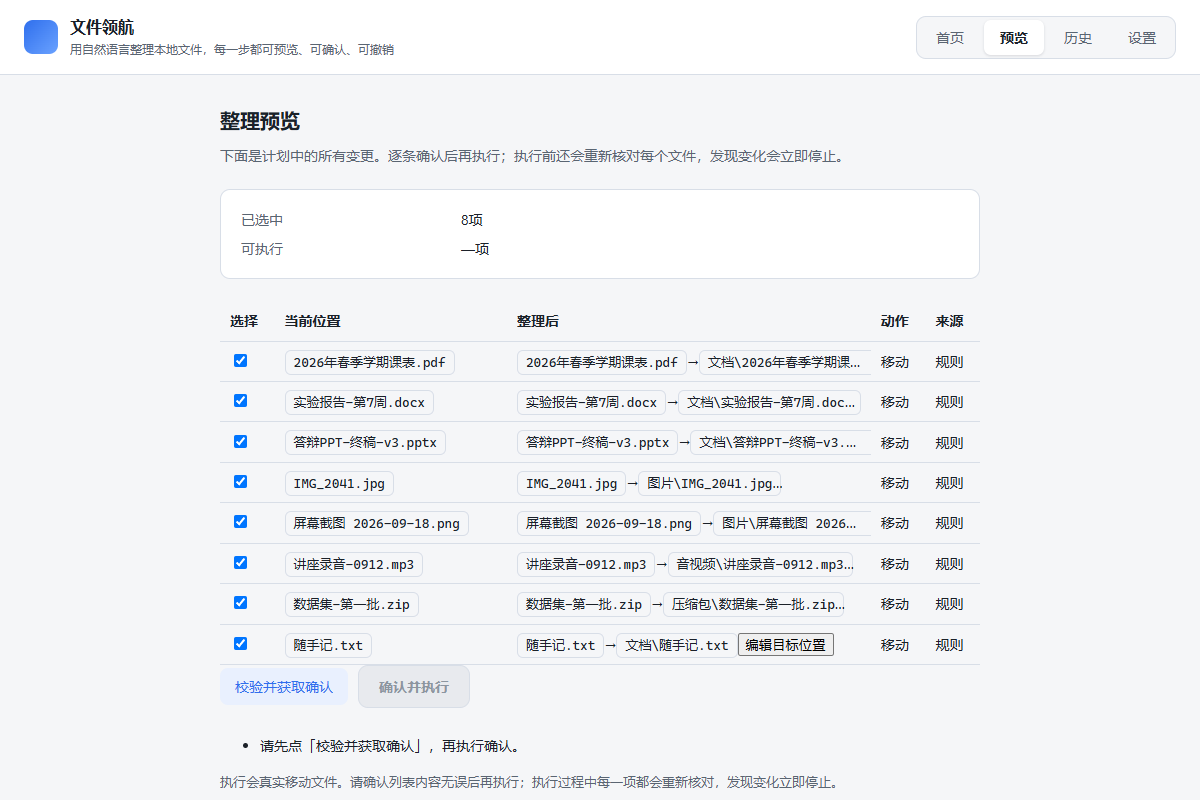
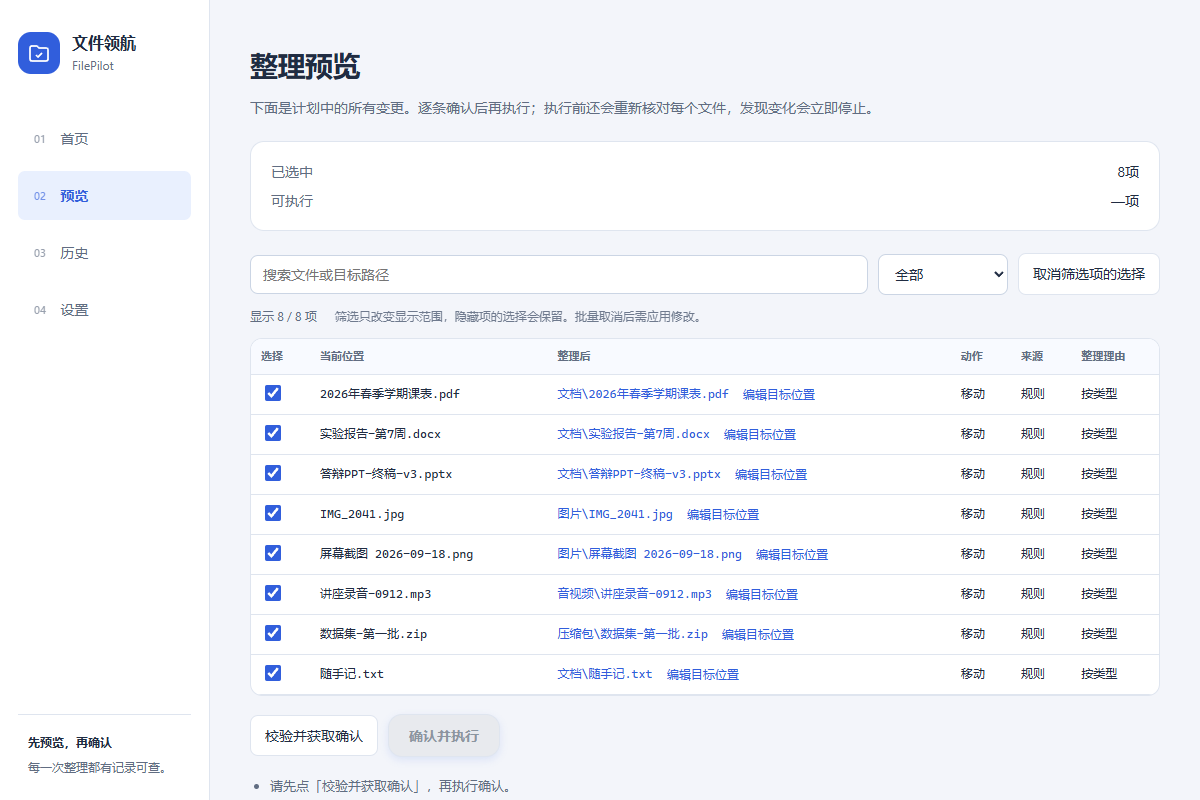
docs: 记录代码审查结论与界面完善，更新截图与发布清单
- 新增 docs/CODE_REVIEW_2026-09-26.md（CR-001~CR-006，含证据与修复建议）
- 新增 docs/UI_IMPROVEMENTS_2026-09-26.md（本轮界面完善与性能测量）
- PROGRESS.md 补两轮进度与门禁复跑记录；RELEASE_NOTES 同步验收状态
- RELEASE_CHECKLIST 更新安装包哈希为 3,049,424 字节 /
  2a3fa3c90cece6527b8514abd490a1cab14cb0938d51fc06cb6be96556cd681c
  （旧包哈希只属于旧包，新包不能沿用旧包的 T17 证据）
- 截图更新为当前界面；数据为合成样例，已逐张核对无真实路径与密钥

说明：内容扫描脚本不覆盖 NSIS 压缩负载；「安装包里没有真实路径」仍需人工确认。

diff --git a/docs/CODE_REVIEW_2026-09-26.md b/docs/CODE_REVIEW_2026-09-26.md
@@ -1,0 +1,81 @@
+# FilePilot 完成版代码审查（2026-09-26）
+
+以下「已确认的问题」保留 2026-09-26 初次审查时的现场描述和当时的测试结果，便于追溯；它们不是当前代码状态。修复结果和本轮复跑证据见紧接着的表格。T17 的正式验收仍不能从开发机测试推断。
+
+## 修复跟踪（2026-09-26）
+
+| 编号 | 当前状态 | 修复与回归证据 |
+|---|---|---|
+| CR-001 | 已修复 | 草稿未保存时不能校验或执行；迟到的校验报告需与当前计划 ID、revision 匹配，且不能覆盖新草稿。预览组件和 reducer 回归测试通过。 |
+| CR-002 | 已修复 | 保存时同时提交目标草稿与勾选草稿，单独取消勾选也会写回计划；组件回归测试通过。 |
+| CR-003 | 已修复 | 每次进入历史页重新读库；切页回归测试通过。 |
+| CR-004 | 已修复 | 恢复概况专查全库未决记录，不再借用最多 200 条的历史查询；201 条新记录遮蔽旧未决 run 的数据库回归测试通过。 |
+| CR-005 | 已修复 | 连点 E2E 直接在同一事件循环触发两次点击，不再等待已经消失的按钮；全套 E2E 为 4/4。 |
+| CR-006 | 已修复 | 历史增加稳定游标分页和「加载更多」；同毫秒 52 条记录的数据库测试、前端超过 50 条的组件测试通过。 |
+
+本轮复跑：`typecheck`、`lint`、前端单测 **220/220**、`build`、生产 CSP **2/2**、E2E **4/4**、Rust 全套测试（含 `failpoints`，退出码 0）、`cargo fmt --check`、`cargo clippy --all-targets --features failpoints -- -D warnings` 均通过。Rust 测试和 Clippy 在本机以 `CARGO_PROFILE_DEV_DEBUG=0`、`CARGO_BUILD_JOBS=2` 运行，以避开本机 MSVC 的调试记录编译错误；这不改变源码或发布配置。契约重新生成检查、桌面打包和内容扫描也通过，细节见 `docs/PROGRESS.md` 本轮记录。新包仍未在合格的干净 Win11 x64 机器验收，不能用开发机测试代替。
+
+## 已确认的问题（按优先级）
+
+### CR-001｜P1｜预览的本地改动可绕过保存而重新取得执行确认
+
+- **现象**：预览页的 `plainPlan` 叠加 `drafts` / `selectionDrafts`，所以表格和选中数量显示的是本地未保存状态；但「校验并获取确认」直接调用后端 `validate_plan(planId)`，没有先保存，也没有在存在草稿时禁用。`reportLoaded` 随后重建有效确认，未清除草稿或检查 `hasPendingEdits`。因此用户取消勾选/修改目标后，仍可重新校验并点击「确认并执行」；后端执行的是**数据库里的旧计划**，可能与屏幕上的勾选/目标不同。
+- **证据**：`src/features/preview/PreviewPage.tsx:123-129,142-160,410-434`；`src/features/preview/previewReducer.ts:121-137,177-189`；后端 `src-tauri/src/commands_plan.rs` 的 `validate_plan` 从库中读取计划。
+- **影响**：确认对话框里的数量、表格里的目标与实际移动的文件可能不一致。后端仍有路径/令牌校验，但用户确认的内容与执行内容不一致，属于发布阻断级交互安全问题。
+- **建议**：有草稿时禁止校验/执行并明确提示先保存或丢弃；后端报告到达时还需核对计划 revision 与当前可见状态。新增 UI 回归：改勾选或目标但不保存 → 不得取得可执行确认。
+
+### CR-002｜P1｜只改勾选状态时「应用修改」不保存勾选
+
+- **现象**：`saveEdits` 只遍历 `Object.entries(state.drafts)` 组装 `edits`。单独点击复选框只写 `selectionDrafts`，请求会带空 `edits`；后端 `update_plan` 即使收到空列表仍把 revision 加一，并返回未改变选中的计划；`planLoaded` 清空本地草稿，勾选恢复原值。用户以为刚才取消勾选已经保存，实际没有。
+- **证据**：`src/features/preview/PreviewPage.tsx:168-191,347-353`；`src/features/preview/previewReducer.ts:112-113,193-198`；`src-tauri/src/commands_plan.rs` 中 `update_plan` 仅遍历传入的 `edits`，之后无条件 revision +1。
+- **影响**：直接导致用户选择丢失，并可与 CR-001 组合成「显示不选、实际仍移动」的高风险流程。
+- **建议**：以 `drafts` 与 `selectionDrafts` 的 itemId **并集**构造编辑；没有任何有效变更时不调用 `update_plan`。新增“只取消一项 → 保存 → 重新读取计划 → 该项仍未选中”的端到端/组件测试。
+
+### CR-003｜P2｜历史页在本次会话中不会自动显示新执行记录
+
+- **现象**：`App` 把所有页面常驻挂载、只用 `hidden` 切换；`HistoryPage` 的 `list_runs` 只在初次挂载或点击「刷新」后执行。整理/撤销完成后切到历史，列表仍是启动时的快照，必须手动刷新才能看到新记录。
+- **证据**：`src/App.tsx:231-261`；`src/features/history/HistoryPage.tsx:62-83,91-99`。现有历史组件测试只覆盖加载/展开，没有“执行后进入历史”的刷新场景。
+- **建议**：在切入历史页或执行/撤销完成时传入刷新信号；保持按需加载逐文件明细，但列表需重新查询。补一条“完成一次 run → 打开历史即可看到它”的集成测试。
+
+### CR-004｜P2｜恢复概况只看最近 200 条，老的阻塞记录可能从界面消失
+
+- **现象**：`recovery_status` 用 `list_runs(db, MAX_LISTED_RUNS)`；`MAX_LISTED_RUNS=200`。若一条未决 run 后又产生 200 条更新的记录，恢复概况会给出 `blocked=false`，首页不会指向那条未决记录。存储层执行准入仍用全表 `EXISTS` 阻断，因此不会绕过文件安全闸门，但用户会遇到“界面看不见原因、操作却被拒绝”。
+- **证据**：`src-tauri/src/commands_recovery.rs:97-121`、`src-tauri/src/storage/runs.rs:185-216`；全表准入在 `src-tauri/src/storage/execution.rs:57`。
+- **建议**：恢复概况专查所有未解决 run（或单独分页），不要复用历史列表的展示上限；增加“201 条以上、最老的一条未决”的数据库测试。
+
+### CR-006｜P2｜历史没有分页，超过 50 条的旧记录不可从界面访问
+
+- **现象**：规格 `docs/MASTER_PLAN.md:387` 要求 `list_history(cursor, limit)`；当前前端固定请求 `list_runs(limit: 50)`，后端也没有 cursor/offset 参数，历史页没有“下一页/加载更多”。第 51 条及更早的 run 在界面上不可见；若用户需要撤销那次操作，虽然 `preview_undo(runId)` 接口还在，也没有可供普通用户找到该 `runId` 的入口。
+- **证据**：`src/features/history/HistoryPage.tsx:9,62-83`；`src-tauri/src/commands_execute.rs:267-283`；`src-tauri/src/storage/runs.rs:185-216`。
+- **建议**：实现稳定游标分页与“加载更多”，并用超过 50 条的持久化记录验证旧 run 可见、可展开、可进入撤销。逐文件明细也应评估分页/窗口化：当前 `get_run_items` 一次返回全部操作、`RunItemsTable` 一次渲染全部行，大批量 run 可能有明显卡顿；这一性能风险尚未量测，不记为已证实缺陷。
+
+### CR-005｜P2（测试）｜重复点击 E2E 用例稳定超时，门禁当前不绿
+
+- **现象**：`tests/e2e/cancel.spec.ts:137` 在第一次确认后，对已随对话框消失的按钮再次执行 Playwright `click({ force: true })`。`.catch()` 要等点击超时才运行；本次全套与单独复跑都卡到整条测试的 30 秒上限。把总上限临时调到 60 秒后仍卡到 60 秒，说明不是单纯的“机器慢”。Playwright trace 进一步确认：第一次点击已完成且对话框已消失，第二次点击停在 `waiting for getByRole('button', { name: '确认执行' })`，没有进入后续断言。失败日志中的 `page.evaluate` 错误是测试超时关闭页面的后果，不是出现第二次执行请求的证据。
+- **建议**：不要对已消失的按钮做长时强制点击。用同步双击事件/短超时配合确定性断言，或直接在冻结的 IPC Promise 期间验证只收到一次 `execute_plan`。修复测试后重新跑全套 E2E；在此之前不能说 E2E 门禁全绿。
+
+## 交付与框架缺口（不是已确认的代码缺陷）
+
+1. **T17 正式验收证据缺口**：现有 `docs/PROGRESS.md` 与 `docs/T17_REPORT.md` 明确写 T17 未完成；已有 VMware 验收是 Win10 18363 且装有 Python/VS Code，按规格只能算平台探测。用户若已另在干净 Win11 x64 完成，请把该机的 `report.txt`、截图与环境审计补入仓库并更新阶段状态；在看到证据前，本审查不能改写成“正式通过”。
+2. **T15 人工验收与真实 CI**：`docs/PROGRESS.md` 仍记两项 T15 人工验收未做；`docs/POST_RELEASE_TODO.md` PR-005 仍记 Windows CI 未在 runner 上观测。它们是验收/交付证据缺口，不代表对应功能不存在。
+3. **前端产物体积**：`pnpm build` 成功，但 Vite 提示单个 JS chunk 约 585.73 kB（压缩后 124.40 kB），超过 500 kB 提示线。不是当前功能错误；后续可量测冷启动后再决定是否拆分设置/历史等非首页模块，避免只为消除警告而改框架。
+
+## 初次审查时实际运行的门禁（历史记录）
+
+| 命令 | 结果 |
+|---|---|
+| `pnpm.cmd typecheck` | exit 0 |
+| `pnpm.cmd lint` | exit 0 |
+| `pnpm.cmd test` | 17 文件 / **215 passed**，exit 0 |
+| `pnpm.cmd validators:check` | 31 个定义一致，exit 0 |
+| `pnpm.cmd build` | exit 0；有 500 kB chunk 提示 |
+| `pnpm.cmd test:prod-csp` | **2 passed**，exit 0 |
+| `pnpm.cmd test:e2e` | **3 passed / 1 failed**，exit 1；见 CR-005 |
+| 单独复跑重复点击 E2E | **1 failed**，exit 1；同样 30 秒超时 |
+| 单例临时设 `--timeout=60000` | **1 failed**，exit 1；仍耗尽 60 秒，未改测试文件 |
+| `cargo fmt --manifest-path src-tauri/Cargo.toml --check` | exit 0 |
+| `cargo test --features failpoints --locked -- --test-threads=1` | **未进入测试阶段**：本机 MSVC 编译 SQLite 时 `cl` 报 D8050（无法执行 `c1.dll` / 无法将命令行放入调试记录），exit 1。不能据此判定 Rust 代码通过或失败；未关闭 Defender、未修改系统安全设置。 |
+
+## 初次审查建议的修复顺序（已执行）
+
+先把 CR-001/002 作为同一批修复并加回归测试，确认“屏幕展示 = 持久化计划 = 最终确认”的一致性；再修 CR-005 使 E2E 恢复有效；随后处理历史/恢复可发现性与分页（CR-003/004/006）。所有改动需复跑相关门禁并重新构建安装包；若安装包改变，原 SHA-256 与 Win10 平台探测结果不能充当新包的验收证据。

diff --git a/docs/RELEASE_NOTES_v0.1.0.md b/docs/RELEASE_NOTES_v0.1.0.md
@@ -4,6 +4,8 @@
 - 安装包：`FilePilot_0.1.0_x64-setup.exe`
 - 状态：**未签名**（见「验证你拿到的安装包」一节）
 
+> 2026-09-26 再次重建候选安装包，包含 CR-001～CR-006 修复和界面/功能完善：工作台布局、按修改月份整理、预览搜索/筛选/批量取消、整理理由展示。下文 2026-09-25 的跨机安装、运行和卸载结果属于**旧包**，不能视作新包验收；新包仍待干净 Win11 x64 验收。最新记录见 `docs/UI_IMPROVEMENTS_2026-09-26.md`。
+
 ---
 
 ## 这是什么
@@ -46,7 +48,7 @@ AI 只产生建议，不直接动文件。
 - 安装包**未签名**，Windows 会提示「未知发布者」。没有代码签名证书，
   请用下面的 SHA-256 校验来源。
 - **没有自动更新**（首版）。
-- 只测过 Windows 11 x64；未在 Windows 10 上验证。
+- 当前修复候选包尚未完成 Windows 11 x64 干净机器验收；旧包曾在 Windows 10 VMware 环境完成平台探测，不能替代新包验收。
 
 **功能层面的**
 
@@ -61,17 +63,9 @@ AI 只产生建议，不直接动文件。
   （规格要求清理必须由用户明确选择并提示恢复记录会丢失——我们选择不做这个入口）。
 - 网络盘、同步目录、联接点指向授权根目录之外的情况会被拒绝或跳过。
 
-**真机验收发现的、尚未修复的可用性问题**（2026-09-25，详见 `docs/POST_RELEASE_TODO.md`）
+**旧包真机验收发现的可用性问题**（2026-09-25，原始记录见 `docs/POST_RELEASE_TODO.md`）
 
-- **执行大批量文件时界面没有即时反馈**：目录内文件多（实测 952 个）时，
-  点下确认后对话框不会立即关闭、按钮不会变化、进度数字被对话框遮住，
-  看起来像卡死。**没有数据风险**（重复点击不会产生第二次执行，也不会重复移动文件），
-  但建议**等待执行完成，不要强杀进程**。
-- **整理历史看不到「这次具体移动了哪些文件」**：历史列表只显示状态与
-  已移动/失败/未执行的件数，展开「明细」也只列出问题项。
-  整理两次以上时**难以分辨哪条记录对应哪一次整理**。
-  需要查看具体文件时，请从结果页或撤销页看（那两处有逐项清单）。
-- 两处界面观感问题：问题列表中的作用域标识与正文贴得太近；执行结果统计数字列未对齐。
+- 这些问题已在当前源码中处理：执行时立即关闭确认框并显示进度；历史可展开逐文件记录，并支持进入时刷新与分页；问题列表和统计布局已调整。自动化与截图回归通过，新包的实际安装验收仍待补齐。
 
 ## 验证你拿到的安装包
 
@@ -79,10 +73,10 @@ AI 只产生建议，不直接动文件。
 Get-FileHash .\FilePilot_0.1.0_x64-setup.exe -Algorithm SHA256
 ```
 
-SHA-256（`FilePilot_0.1.0_x64-setup.exe`，3,029,911 字节，本机构建于 2026-09-24）：
+SHA-256（`FilePilot_0.1.0_x64-setup.exe`，3,049,424 字节，本机构建于 2026-09-26）：
 
 ```
[2 lines of base64/hex data omitted]
 ```
 
 > **这是「这一份文件」的哈希**。本项目**不宣称可复现构建**：
@@ -96,8 +90,8 @@ SHA-256（`FilePilot_0.1.0_x64-setup.exe`，3,029,911 字节，本机构建于 2
 | 项 | 状态 |
 |---|---|
 | **不变量 INV-01 ～ INV-10** | **通过**：每条 2 条具名证据用例，20 条当场复跑全通过（`docs/INVARIANTS.md`，可复跑 `python scripts/check-invariants.py`） |
-| Rust 单元 + 真实 NTFS 集成测试 | 通过：**687 通过 / 0 失败**（`--test-threads=1`）。并行跑时 `tests/analysis.rs` 的假 HTTP 服务**偶发**挂 1–4 条（WinHTTP 12152/12030），判别实验见 `docs/TEST_MATRIX.md` 6.2——**这是个未解决的测试基础设施问题** |
-| 前端 vitest / Playwright（契约 mock） | 通过 |
+| Rust 单元 + 真实 NTFS 集成测试 | 本轮串行 **689 通过 / 0 失败**，默认跳过的两项性能基线另行补跑通过（合计 691）。并行测试的历史偶发问题仍见 `docs/TEST_MATRIX.md` 6.2 |
+| 前端 vitest / Playwright（契约 mock） | 本轮单测 224、E2E 4、截图场景 2，全部通过 |
 | **生产 CSP 启动回归**（`pnpm test:prod-csp`） | 通过（2 条）；且**已验证它在修复前会红** |
 | 性能基线（10,000 文件扫描 / 1,000 项计划） | 通过（数据见 `docs/TEST_MATRIX.md` 第 3 节） |
 | 桌面打包（NSIS，含解析工作进程） | 通过（本机实跑：2.9 MB，SHA-256 见上） |
@@ -106,8 +100,8 @@ SHA-256（`FilePilot_0.1.0_x64-setup.exe`，3,029,911 字节，本机构建于 2
 | **安装版走完规则/撤销/重启完整流程**（2026-09-25，同一虚拟机） | **通过**：规则整理 8 文件全移动（含一次执行创建多个目标目录）、撤销全部回原位、重启后历史可查且撤销需重新授权根目录、重启语义符合设计。同样属**平台探测** |
 | **边界表现**（>100 MiB 文件） | **通过**：实测 150 MB 文件**未进入预览列表**（扫描阶段即跳过） |
 | **WebView2 三种情形**（已装 / 缺失 / 断网） | **通过**（2026-09-25）：三分支全过——已装时安装不额外下载；缺失时安装**能引导安装**；断网且缺失时给出**可理解的失败提示**，不会静默装出一个打不开的程序。⚠ 结论与「机器是否干净」**正交**（验的是 `downloadBootstrapper` 分支），故可直接采纳；但它**不构成** T17 通过 |
-| **整理历史看不到"动了哪些文件"**（PR-003） | **已知问题**：历史只显示计数，明细区无逐文件列表。数据在库里，但契约未暴露 → 不阻断，见 `docs/POST_RELEASE_TODO.md` |
-| **大批量执行时界面无反馈**（PR-004） | **已知问题**：≥200 文件时点「确认执行」后界面零反馈，易被误判为卡死。**无数据风险**（重复点击不会产生第二个 run，有 E2E 用例作证）→ 不阻断，见待修清单 |
+| **整理历史逐文件明细**（PR-003） | 当前源码已修复，组件回归通过；新包真机复验待做 |
+| **执行中即时反馈**（PR-004） | 当前源码已修复，重复点击和执行进度回归通过；新包真机复验待做 |
 | Windows CI 全链路 | **未运行**：workflow 已写好并通过 YAML 校验，但尚未推送到 GitHub 触发过 |
 | **干净机器**（无 Node/Rust）安装 + 冒烟 | **未做**：手边只有一台装了 Python/VSCode 的 Win10 虚拟机，**不满足"干净 Win11"前提**。协议与下一步见 `docs/T17_REPORT.md` 第 7、8 节 |
 | 邀请 5 位试用者 | **未做** |

diff --git a/docs/UI_IMPROVEMENTS_2026-09-26.md b/docs/UI_IMPROVEMENTS_2026-09-26.md
@@ -1,0 +1,57 @@
+# FilePilot 界面与功能完善（2026-09-26）
+
+本轮按用户确认的简洁 Windows 桌面工具风格实施，完善现有整理流程。采用 Superpowers 的需求梳理、先失败后修复的行为测试和完成前验证流程。
+
+## 已实施
+
+- 左侧导航、文件夹品牌图形、统一蓝色主操作、浅灰工作区和白色卡片；统一设置、历史、撤销和恢复区域的表单、间距、边框与反馈。
+- 首页增加步骤提示和三列扫描统计；把后端已有的 `byMonth` 规则接到「按修改月份」选项，按类型仍是默认值。月份依据是最后修改时间。
+- 预览支持按源路径或目标路径搜索，以及「全部 / 仅看有问题的 / 仅看已选中的」筛选。
+- 支持批量取消当前筛选结果的选择；隐藏项不受影响，修改后原确认失效，仍须应用修改并重新校验。不会通过筛选自动选中原本未选择的项。
+- 预览表直接显示整理理由，来源和目标分列显示，长路径保留完整文本和悬停提示；空搜索结果有明确提示。
+- 修复虚拟列表滚动后筛选为短列表时因旧偏移越界而显示空白的问题。
+- 保存或执行过程中禁用勾选、目标修改和批量取消，防止响应返回时丢失用户在请求期间追加的修改。
+- 换一份计划时重置预览组件，避免旧结果和筛选状态进入新计划；切换页面回到内容顶部。
+- 适配较小窗口，保留清晰键盘焦点和减少动态效果偏好；补齐原先未定义的历史/撤销颜色变量。
+
+## 验证证据
+
+新增行为测试先确认失败，再实现并复跑：按月份参数接线、搜索后批量取消及确认失效、滚动后短列表不空白。另补问题筛选保留隐藏项选择的回归。
+
+| 检查 | 本轮结果 |
+|---|---|
+| TypeScript、ESLint | exit 0 |
+| 前端单测 | 17 文件，224 通过 |
+| Playwright E2E | 4 通过 |
+| 生产 CSP 启动与契约检查 | 2 通过 |
+| 截图与窗口检查 | 2 场景通过；1200×800、1000×800、640×800；后两者检查无整页横向溢出 |
+| Rust 全套（failpoints、串行） | exit 0；689 通过、0 失败、2 ignored |
+| Rust fmt / Clippy（all-targets、failpoints、-D warnings） | exit 0 |
+| `pnpm.cmd contracts:check` | exit 0；重新生成的类型与 Schema 哈希一致，31 个校验定义一致 |
+| 前端生产构建 | exit 0；JS 590.61 kB，gzip 126.02 kB，仍有体积提示 |
+| 两项默认 ignored 的性能测试 | 单独执行本轮编译出的 `perf_baseline-038f126b5f8b0bb0.exe --ignored --nocapture --test-threads=1`，exit 0，2 通过；合计 Rust 691 项通过 |
+| `pnpm.cmd desktop:build` | exit 0；主程序、解析工作进程和 NSIS 安装包均成功生成 |
+| 发布内容扫描 | `PYTHONIOENCODING=utf-8` 下 exit 0；158 文件，0 类命中；不覆盖 NSIS 压缩负载 |
+
+Rust 本机测试使用 `scripts/msvc-env.sh` 加载工具链，并设置 `CARGO_PROFILE_DEV_DEBUG=0` 和 `CARGO_BUILD_JOBS=2`。这是测试环境设置，未更改发布配置。
+
+契约入口在上一轮曾报 `Get-FileHash` 不存在。本轮为命令设置 Windows PowerShell 的系统模块路径后，原 `pnpm.cmd contracts:check` 完整通过，无需修改契约脚本。设置仅作用于本次命令环境：`PSModulePath` 指向系统 WindowsPowerShell Modules 与 Program Files 下的 WindowsPowerShell Modules；未修改系统全局环境。
+
+截图位于 `docs/screenshots/`：`home-empty.png`、`home.png`、`preview.png`、`confirm.png`、`executing.png`、`history-empty.png`、`settings.png`、`settings-1000.png`、`settings-640.png`。它们来自真实 React 界面与严格 IPC mock，数据为合成样例；已逐张检查主要页面。它们不代表真实安装环境的文件移动验收。
+
+## 新安装包与性能测量
+
+- 文件：`src-tauri/target/release/bundle/nsis/FilePilot_0.1.0_x64-setup.exe`
+- 体积：3,049,424 字节。
[1 lines of base64/hex data omitted]
+- 原候选包的哈希不可用于本包，验收脚本的 `ExpectedSha256` 必须使用上述新值。
+
+性能样本仅在 TempDir 内生成：Windows x64、32 逻辑核心，10,000 个合成小文件共 478,890 字节。扫描 2.359 秒（未截断）；10,000 项完整规则计划 2.950 秒；1,000 项计划 0.272 秒；1,000 项校验 0.457 秒；进程峰值工作集 28.6 MB。1,000 项计划与扫描均达到规格测量目标。这组小文件结果不代表大文件哈希、OCR、网络或冷启动性能。
+
+连续 10 轮、每轮 500 文件扫描的耗时为 0.097、0.097、0.094、0.096、0.096、0.094、0.103、0.099、0.096、0.101 秒；未出现测试定义的五倍退化。这是扫描耗时检查，不能据此证明所有任务的 worker 与句柄都无泄漏。原始输出保存在 `src-tauri/tmp/perf_baseline.txt` 和 `src-tauri/tmp/perf_rounds.txt`。
+
+## 仍需区分的验收范围
+
+- 自动化通过不等于证明没有任何缺陷。新安装包仍需在合格的干净 Win11 x64 环境完成 T17，旧 Win10 平台探测不能作为新包结果。
+- 整理模式和扫描上限目前仍为只读，提供商管理仍可用；本轮完善的是现有规则和预览操作，没有新增设置写入接口。
+- 前端仍有超过 500 kB 的单包体积提示；真实冷启动、人工试用和真实 CI runner 验收保持原有待办状态。

diff --git a/docs/PROGRESS.md b/docs/PROGRESS.md
@@ -1,5 +1,30 @@
 # FilePilot 开发进度
 
[1 lines of base64/hex data omitted]
+
+> 2026-09-26 代码审查后修复：CR-001 至 CR-006 已在源码中处理并增加回归测试；详见 `docs/CODE_REVIEW_2026-09-26.md` 的修复跟踪。前端 220 条单测、4 条 E2E、2 条生产 CSP、Rust 全套测试与严格代码检查已复跑通过。新安装包和 T17 正式干净 Win11 x64 验收仍需分别确认，因此不能把版本标为“全部完成”。
+
+### 2026-09-26 审查修复复跑记录
+
+本轮改动：预览确认与勾选保存、历史进入时刷新及游标分页、未决恢复全库查询、重复点击 E2E；测试改动在 `tests/ui/preview.test.tsx`、`tests/ui/history-items.test.tsx`、`tests/e2e/cancel.spec.ts` 和 `src-tauri/src/storage/runs.rs`。
+
+| 命令 / 环境 | 退出码与结果 |
+|---|---|
+| `pnpm.cmd install --frozen-lockfile` | 0；恢复本机缺失的 `node_modules`，锁文件未变 |
+| `pnpm.cmd typecheck`、`pnpm.cmd lint` | 均 0 |
+| `pnpm.cmd test` | 0；17 文件 / 220 通过 |
+| `pnpm.cmd build` | 0；仍有 586.95 kB 单 chunk 提示（性能待量测） |
+| `pnpm.cmd test:prod-csp` | 0；2 通过 |
+| `pnpm.cmd test:e2e` | 0；4 通过 |
+| `cargo test --features failpoints --locked -- --test-threads=1` | 0；所有单元与集成测试通过；通过 `scripts/msvc-env.sh` 加载工具链，设置 `CARGO_PROFILE_DEV_DEBUG=0`、`CARGO_BUILD_JOBS=2` |
+| `cargo fmt --check`、`cargo clippy --all-targets --features failpoints --locked -- -D warnings` | 均 0；同上工具链环境 |
+| `powershell -NoProfile -ExecutionPolicy Bypass -File scripts/check-contracts.ps1` | 0；重新生成的 TS 类型和 JSON Schema 哈希均与仓库一致；运行时设 `CARGO_PROFILE_DEV_DEBUG=0`、`CARGO_BUILD_JOBS=2` |
+| `pnpm.cmd validators:check` | 0；31 个定义一致 |
[1 lines of base64/hex data omitted]
+| `python scripts/scan-release-content.py` | 设置 `PYTHONIOENCODING=utf-8` 后 exit 0；157 文件扫描，0 类命中；NSIS 压缩负载不在脚本覆盖范围 |
+
+`pnpm.cmd contracts:check` 入口在本机失败：它启动的子 PowerShell 找不到系统自带 `Get-FileHash`（exit 1）；直接运行上表的契约检查脚本成功。此为本机命令环境问题，不能把失败入口写成通过。内容扫描首次也因本机 Python 默认 GBK 无法输出警告符号而 exit 1；设置 UTF-8 后复跑通过。**新包尚未安装到合格的干净 Win11 x64 机器进行 T17 验收**；2026-09-25 Win10 报告和旧哈希只属于旧包。
+
 - 规格版本：MASTER_PLAN 1.0（`docs/MASTER_PLAN.md`）
 - 当前阶段：**P8 开源与可安装交付**（MASTER_PLAN §9.10）
 - 当前任务：**T16 已完成；T17 未完成 —— 缺一台合格的干净机器。**

diff --git a/RELEASE_CHECKLIST.md b/RELEASE_CHECKLIST.md
@@ -6,8 +6,8 @@
 发布人：`______`
 日期：`______`
 
-> v0.1.0 的本机实测值（供对照，不替代每次发布重新过一遍）：
[1 lines of base64/hex data omitted]
+> v0.1.0 修复候选包的本机实测值（供对照，不替代每次发布重新过一遍）：
[1 lines of base64/hex data omitted]
 > 见 `docs/RELEASE_NOTES_v0.1.0.md`。**每次构建都会变**（见第 1 节与 TEST_MATRIX 8.7），
 > 所以这些数字只对那一份文件有效。
 >
